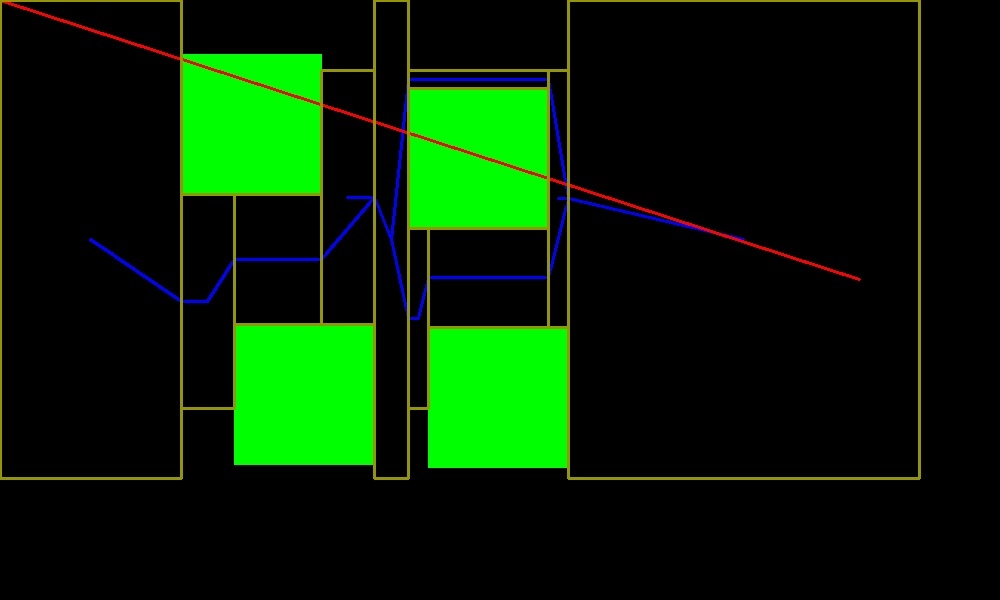
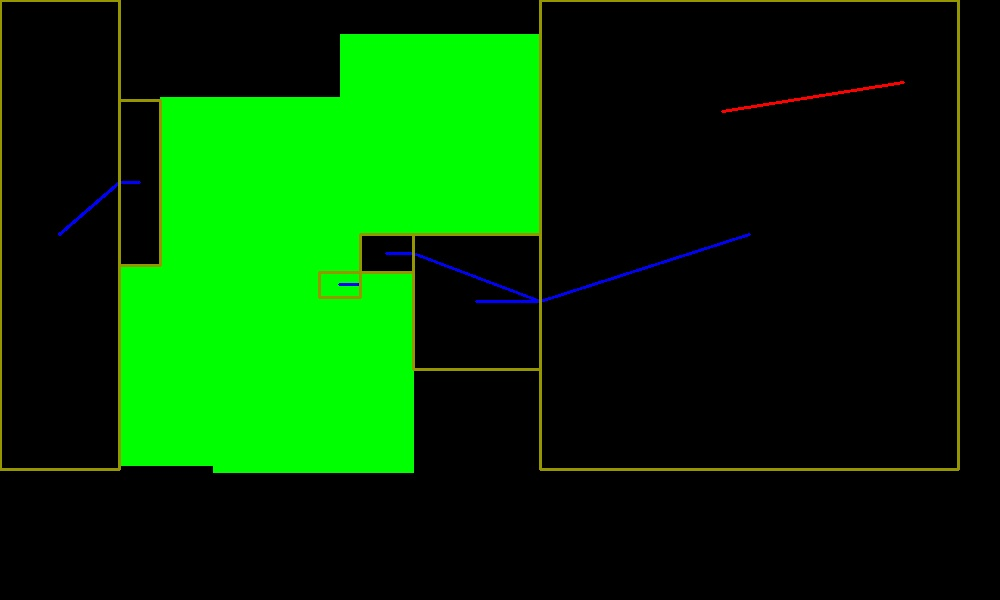
integrationalisation

diff --git a/Client/BaseStation/Logic/SequencerState.py b/Client/BaseStation/Logic/SequencerState.py
@@ -1,6 +1,6 @@
 class SendingBotToChargingStationState():
     def handle(self, sequencer, robotPosition, pathfinder):
-        chargingStationPosition = (100,100)
+        chargingStationPosition = (722,111)
         sequencer.setState(SendingBotToTreasureState())
         return pathfinder.findPath(robotPosition, chargingStationPosition)
 
